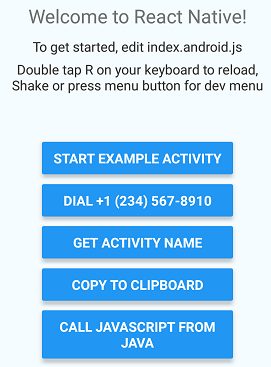
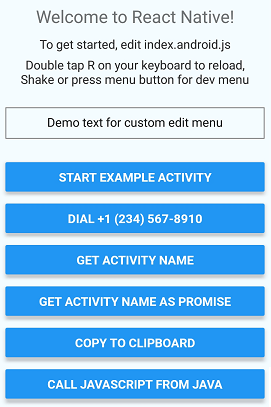
Added support for custom edit menu extension

diff --git a/index.android.js b/index.android.js
@@ -12,6 +12,7 @@ import {
   NativeModules,
   StyleSheet,
   Text,
+  TextInput,
   View
 } from 'react-native';
 
@@ -42,6 +43,10 @@ export default class ActivityDemoComponent extends Component {
           Double tap R on your keyboard to reload,{'\n'}
           Shake or press menu button for dev menu
         </Text>
+        <TextInput
+          style={styles.textInput}
+          value='Demo text for custom edit menu'
+        />
         <View style={styles.buttonContainer}>
           <Button
             onPress={() => activityStarter.navigateToExample()}
@@ -83,9 +88,9 @@ export default class ActivityDemoComponent extends Component {
 const styles = StyleSheet.create({
   buttonContainer: {
     height: 300,
-    width: 220,
+    width: "80%",
     justifyContent: 'space-between',
-    marginTop: 50,
+    marginTop: 30,
   },
   container: {
     flex: 1,
@@ -102,6 +107,14 @@ const styles = StyleSheet.create({
     textAlign: 'center',
     color: '#333333',
     marginBottom: 5,
+  },
+  textInput: {
+    height: 40,
+    width: "80%",
+    marginTop: 20,
+    textAlign: "center",
+    borderColor: 'gray',
+    borderWidth: 1
   },
 });
 

diff --git a/android/app/src/main/java/com/demo/activity/ReverseTextActivity.java b/android/app/src/main/java/com/demo/activity/ReverseTextActivity.java
@@ -1,0 +1,30 @@
+package com.demo.activity;
+
+import android.app.Activity;
+import android.content.Intent;
+import android.os.Bundle;
+import android.widget.TextView;
+
+/**
+ * Handles custom edit menu "Reverse string" item.
+ * https://medium.com/androiddevelopers/custom-text-selection-actions-with-action-process-text-191f792d2999
+ */
+public class ReverseTextActivity extends Activity {
+
+    @Override
+    protected void onCreate(Bundle savedInstanceState) {
+        super.onCreate(savedInstanceState);
+        setContentView(R.layout.activity_reverse_text);
+        CharSequence text = getIntent().getCharSequenceExtra(Intent.EXTRA_PROCESS_TEXT);
+        this.<TextView>findViewById(R.id.reverse_text).setText(reverse(text));
+    }
+
+    private CharSequence reverse(CharSequence text) {
+        StringBuilder sb = new StringBuilder();
+        for (int i = text.length() - 1; i >= 0; --i) {
+            sb.append(text.charAt(i));
+        }
+
+        return sb.toString();
+    }
+}

diff --git a/android/app/src/main/java/com/demo/activity/MainApplication.java b/android/app/src/main/java/com/demo/activity/MainApplication.java
@@ -36,6 +36,6 @@ public class MainApplication extends Application implements ReactApplication {
     @Override
     public void onCreate() {
         super.onCreate();
-        SoLoader.init(this, /* native exopackage */ false);
+        SoLoader.init(this, false);
     }
 }

diff --git a/README.md b/README.md
@@ -8,6 +8,7 @@ This sample demonstrates the interface between React Native JavaScript and Java 
   * Query the host app for information;
   * Copy information to the clipboard.
 * Java calling into JavaScript
+* Verify that custom edit menu extensions work with React Native `TextInput`
 
 The first three use a custom native module called `ActivityStarter`; the fourth uses the native module `Clipboard`, which [comes with React Native out of the box](https://github.com/facebook/react-native/blob/master/ReactAndroid/src/main/java/com/facebook/react/modules/clipboard/ClipboardModule.java). Technically there is no difference. The final one invokes `ActivityStarter.callJavaScript`, which in turn calls a JavaScript method from Java.
 
